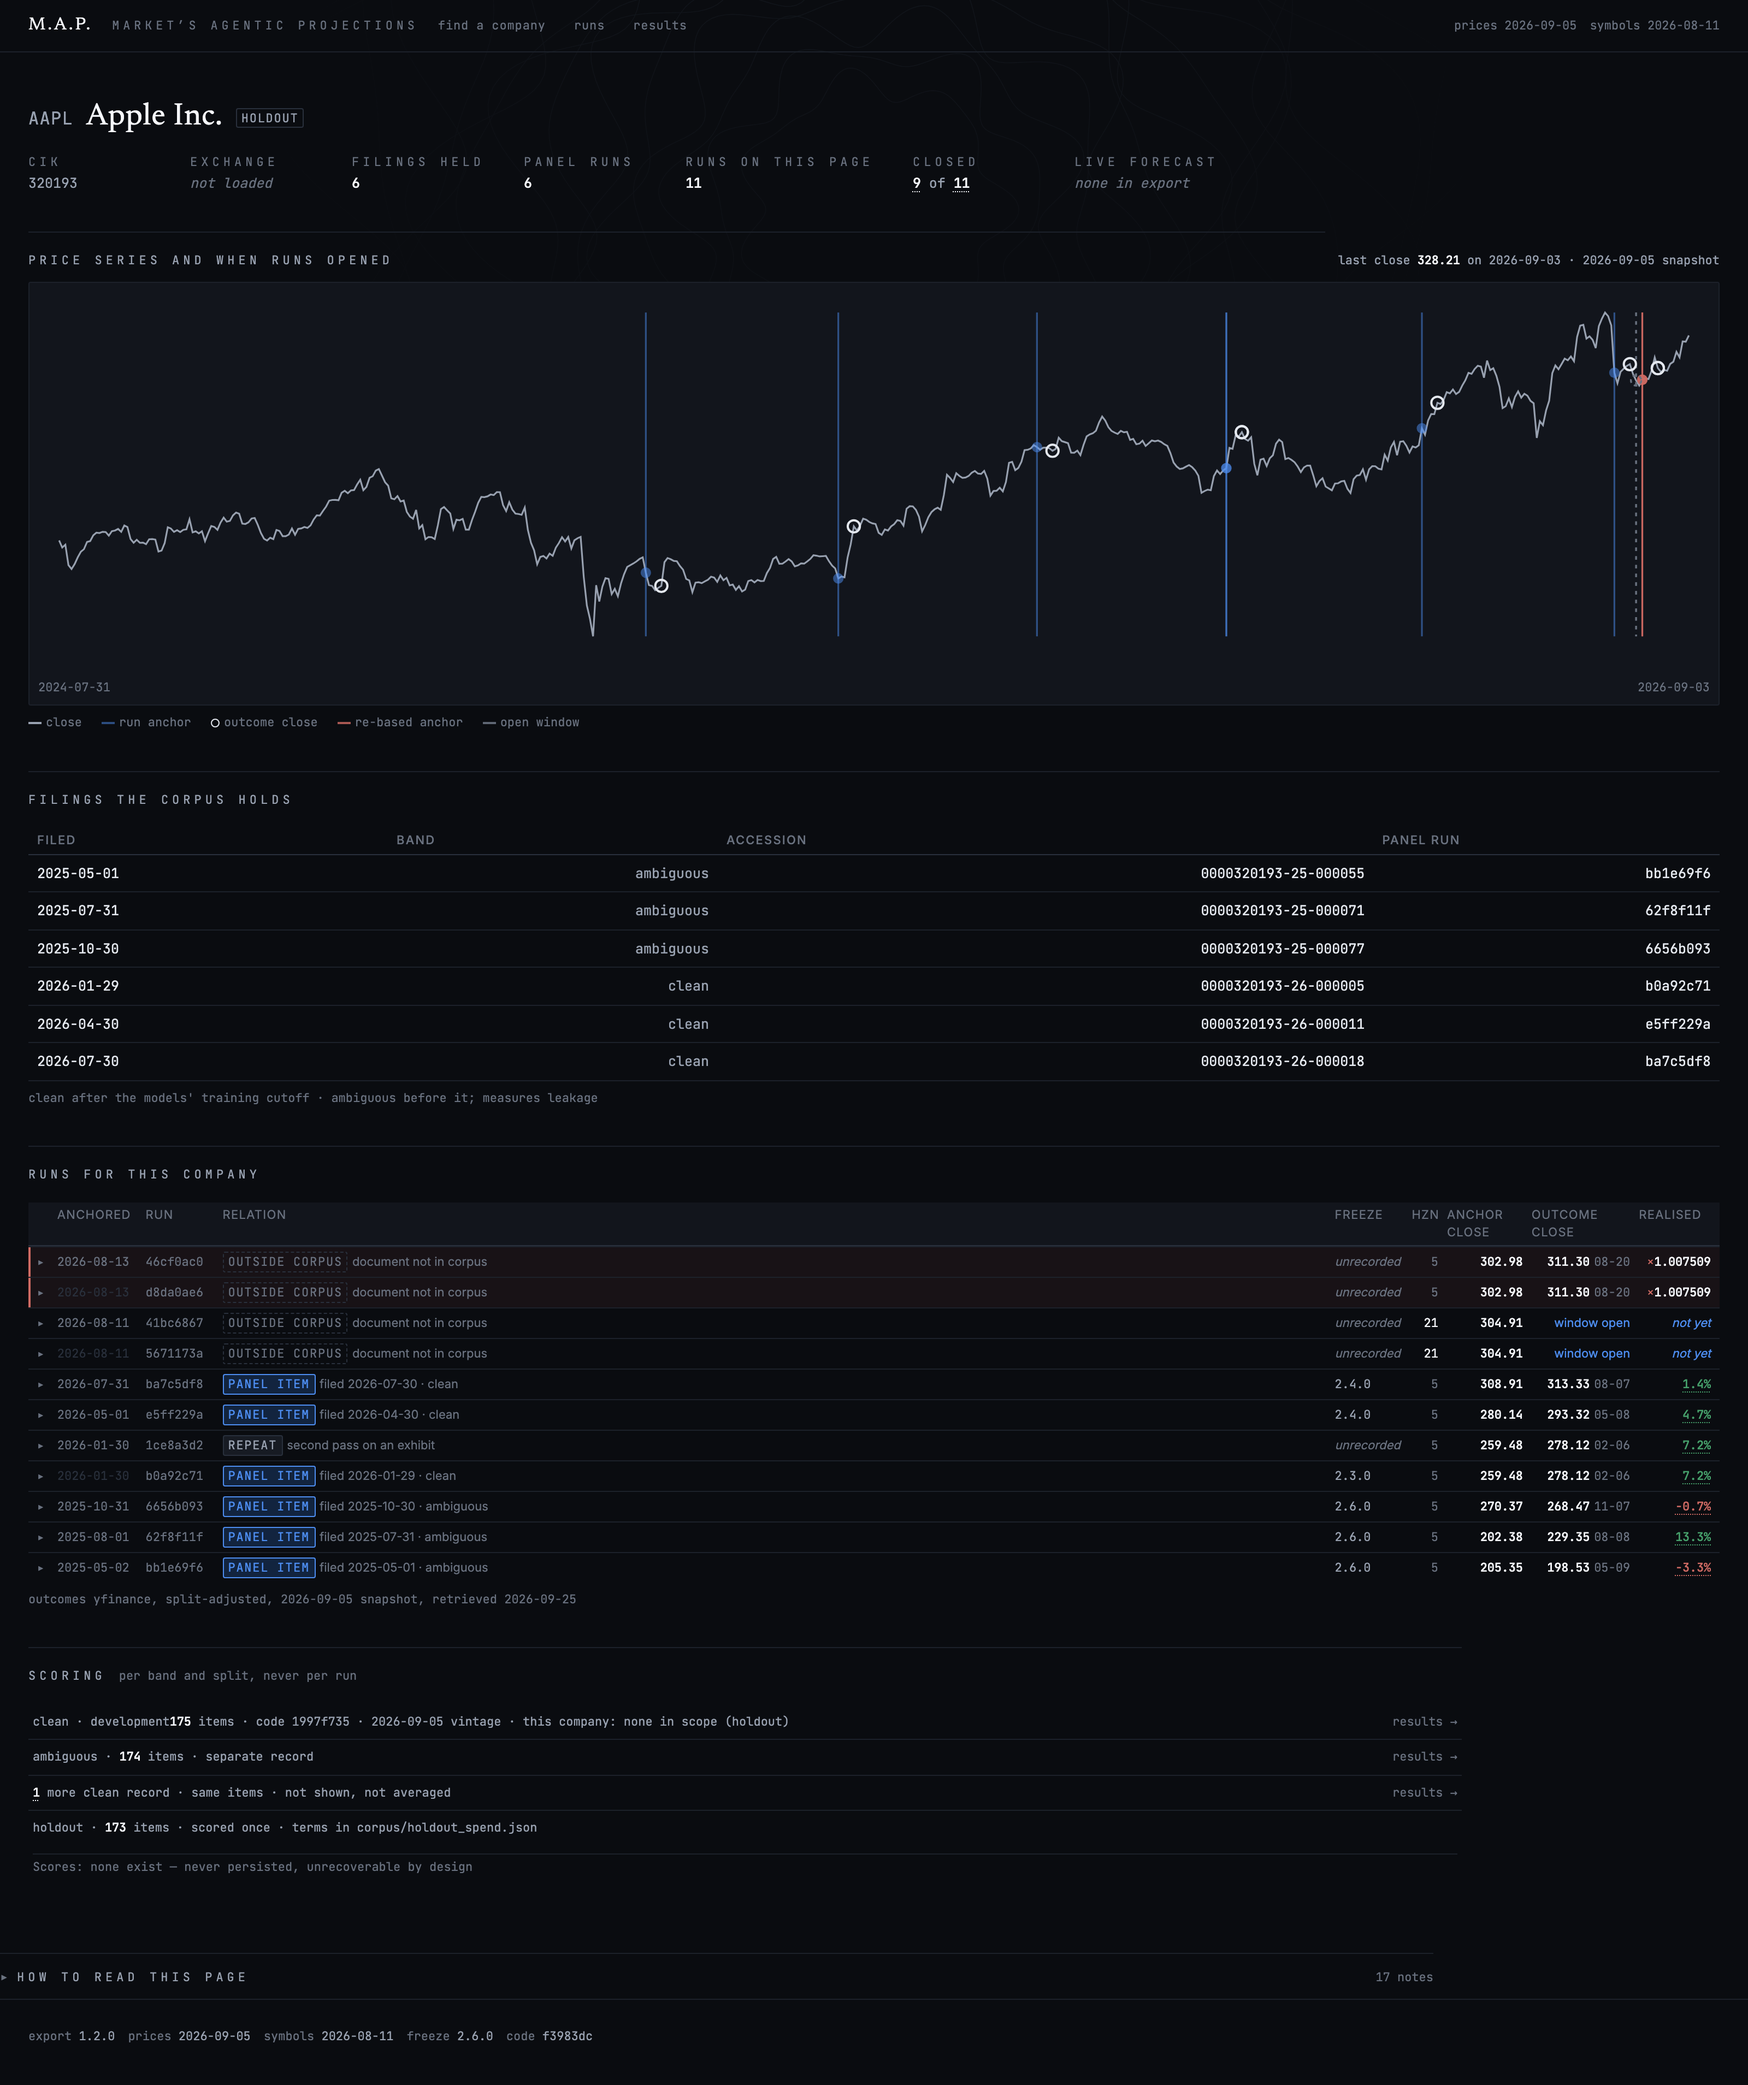
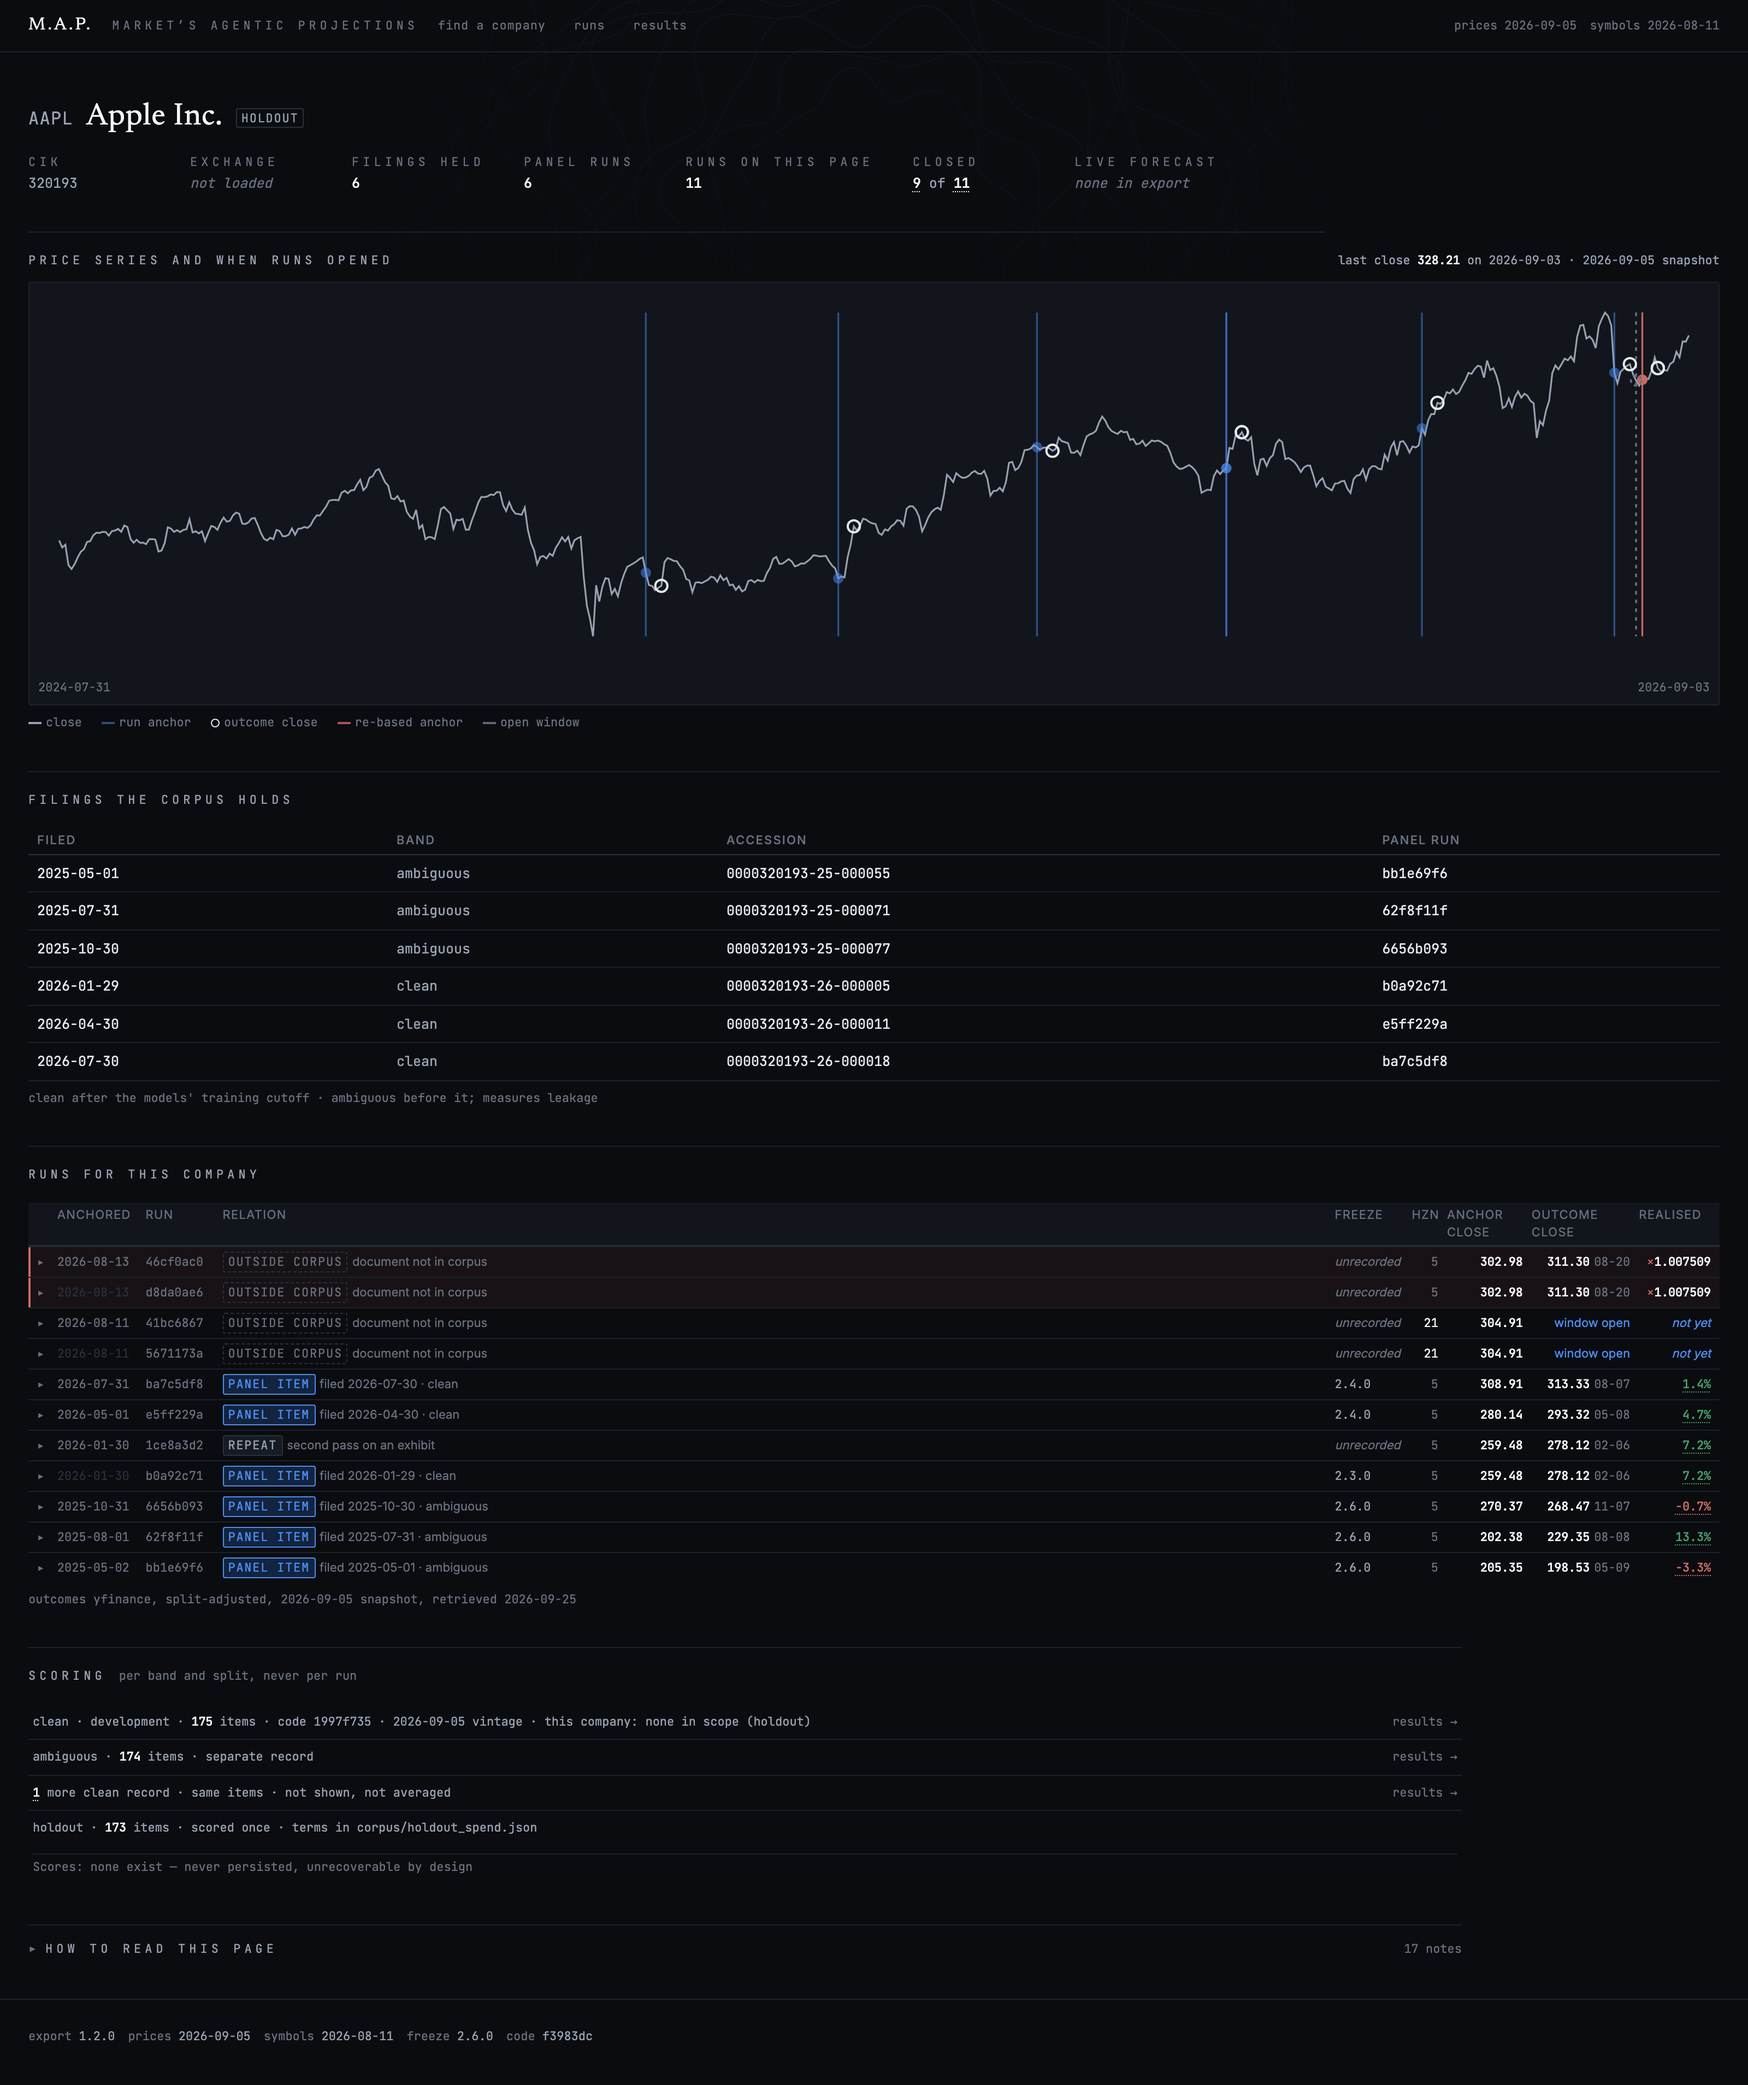
Fix six review findings across the four screens
The search match count added the corpus hits to a symbol-index total that already contained them, so every corpus company counted twice.

diff --git a/ui/assets/js/data/source.js b/ui/assets/js/data/source.js
@@ -175,6 +175,39 @@ export async function listCorpusCompanies() {
   };
 }
 
+/** THE matching rule, in one place.
+
+    Ticker prefix first, then company name anywhere. The search screen applies it
+    to the 120 corpus companies it holds in memory and this module applies it to
+    the 10,398-row index; two copies of it would let the two sets disagree about
+    what matched, which is precisely the question `countMatches` below answers.
+
+    `term` is expected uppercase — the caller normalises once rather than per
+    row, across 10,398 of them. */
+export function matchesTerm(row, term) {
+  if (row.ticker.startsWith(term)) return true;
+  const name = row.name;
+  if (!name || isAbsent(name)) return false;
+  return name.toUpperCase().includes(term);
+}
+
+/** How many DISTINCT symbols a term matched, across both sources.
+
+    The index holds every listed symbol INCLUDING the 120 the corpus froze, so a
+    corpus hit is a hit in both lists and adding the two totals counted it twice:
+    AAPL matched one company and reported 2, TSL matched four and reported 5.
+
+    Not `index − corpus` either. That would assume every corpus company is in the
+    index — all 120 are in this export, which is a property of it rather than a
+    guarantee, since a company frozen before the index was last synced would be
+    in one and not the other. A set over the tickers is right either way. */
+export function countMatches(symbolRows, corpusRows) {
+  const seen = new Set();
+  for (const row of symbolRows) seen.add(row.ticker);
+  for (const row of corpusRows) seen.add(row.ticker);
+  return seen.size;
+}
+
 /** The full searchable index, lazily. 10,398 rows, 864 KB — fetch it on the
     first keystroke, not at boot. */
 export async function searchSymbols(query, { limit = 20 } = {}) {
@@ -184,9 +217,7 @@ export async function searchSymbols(query, { limit = 20 } = {}) {
   // The index is open either way, so its size is knowable even for an empty
   // query. That is what lets the box stop saying "index not read".
   if (!needle) return { rows: [], matched: 0, indexSize: rows.length, provenance: MEASURED };
-  const hits = rows.filter(
-    (r) => r.ticker.startsWith(needle) || r.name.toUpperCase().includes(needle),
-  );
+  const hits = rows.filter((r) => matchesTerm(r, needle));
   return {
     // `limit: Infinity` returns every hit, for a caller that groups them by
     // resolution before cutting each group.

diff --git a/ui/assets/js/search-page.js b/ui/assets/js/search-page.js
@@ -61,12 +61,9 @@ function orderFor(term) {
 /** Corpus matches come from the 7.5 KB file in memory, so they resolve in every
     phase — including before the index has been requested. */
 function corpusMatches(term) {
-  return state.corpus
-    .filter((row) => {
-      const name = source.isAbsent(row.name) ? "" : row.name;
-      return row.ticker.startsWith(term) || name.toUpperCase().includes(term);
-    })
-    .sort(orderFor(term));
+  // The boundary's rule, not a second copy of it: two copies would let the two
+  // lists disagree about what matched, which is what the count reconciles.
+  return state.corpus.filter((row) => source.matchesTerm(row, term)).sort(orderFor(term));
 }
 
 async function group(term) {
@@ -82,7 +79,7 @@ async function group(term) {
   if (state.phase !== "ready") return { groups, matched: corpus.length, screened: corpus.length };
 
   const held = new Set(state.corpus.map((r) => r.ticker));
-  const { rows, matched } = await source.searchSymbols(term, { limit: Infinity });
+  const { rows } = await source.searchSymbols(term, { limit: Infinity });
   const outside = rows.filter((r) => !held.has(r.ticker)).sort(orderFor(term));
   const slice = outside.slice(0, SCREEN_CAP);
 
@@ -95,9 +92,10 @@ async function group(term) {
     else groups.none.push(entry);
   });
 
+  // The union of the two lists, keyed on ticker. See `countMatches`.
   return {
     groups,
-    matched: (matched ?? rows.length) + corpus.length - 0,
+    matched: source.countMatches(rows, corpus),
     screened: corpus.length + slice.length,
   };
 }

diff --git a/ui/assets/styles/company.css b/ui/assets/styles/company.css
@@ -140,7 +140,15 @@
   letter-spacing: .1em; color: var(--ink-3); font-weight: 500;
   padding: var(--sp-2) var(--sp-3); border-bottom: 1px solid var(--rule-2);
 }
-.cmp-table td { padding: var(--sp-3); border-bottom: 1px solid var(--rule); vertical-align: top; font-family: var(--font-mono); }
+/* LEFT, matching the header. components.css right-aligns every td — a sensible
+   default for a table of quantities, and wrong for this one: a filing date, a
+   band, an accession number and a run id are all strings read from the left, and
+   none of them is compared by magnitude. `.cmp-table th` had already been pulled
+   back to left and the cells had not, so each header sat away from its column. */
+.cmp-table td {
+  padding: var(--sp-3); border-bottom: 1px solid var(--rule);
+  vertical-align: top; font-family: var(--font-mono); text-align: left;
+}
 .cmp-band { color: var(--ink-2); }
 .cmp-row--unrun td { background: var(--sunken); }
 /* Attempted, settled, no forecast -- a terminal failure. This one earns amber. */

diff --git a/ui/assets/styles/system.css b/ui/assets/styles/system.css
@@ -276,6 +276,11 @@ body[data-mode="open"] .ground ~ *,
 a { color: var(--accent); text-decoration: none; transition: color var(--dur-1) var(--ease); }
 a:hover { color: var(--ink-num); text-decoration: underline 1px; text-underline-offset: .25em; }
 :focus-visible { outline: 1px solid var(--accent); outline-offset: 2px; }
+/* ...except where a wrapper already shows the ring. The search box draws its own
+   border on :focus-within, and the input inside it drawing a second outline made
+   one control look like two. The box is what a reader is focused on. */
+.srch-box :focus-visible,
+.door-box :focus-visible { outline: none; }
 
 /* The hover is an inset shadow, not a border, so nothing shifts under the
    pointer — and a row's own meaningful left bar stays visible under it. */

diff --git a/ui/assets/styles/results.css b/ui/assets/styles/results.css
@@ -30,6 +30,10 @@ body > .masthead,
    the prose measure it stopped short of the plots and the page had two right
    edges. Prose still caps itself, inside. */
 #disclosure, #legend, .res-status { max-width: var(--measure-prose); }
+/* NOT `#identity`. company.css caps that id at the prose measure, and this page
+   loads company.css — the same collision that once made the runs header narrow
+   and was fixed there by renaming to `#runs-identity`. The head holds the same
+   grid the charts do and has to reach the same right edge. */
 
 .res-card {
   background: var(--surface); border: 1px solid var(--rule);

diff --git a/ui/company.html b/ui/company.html
@@ -42,10 +42,10 @@
     <section id="filings"   class="cmp-section"></section>
     <section id="runs"      class="cmp-section"></section>
     <section id="scoring"   class="cmp-section"></section>
+    <!-- Inside <main>, which carries the frame: outside it the disclosure
+         had no gutter and its caret sat on the screen edge. -->
+    <section id="why"></section>
   </main>
-
-  <!-- Exactly one per screen, directly above the footer. -->
-  <section id="why"></section>
 
   <footer class="cmp-footer" id="footer"></footer>
 

diff --git a/ui/assets/js/ui/company-scoring.js b/ui/assets/js/ui/company-scoring.js
@@ -39,7 +39,7 @@ export function renderScoring(root, { scoring, company }) {
 
   if (clean) {
     list.append(scoreRow([
-      chromeText(`${clean.band} · development`, "the band and split this record covers"),
+      chromeText(`${clean.band} · development · `, "the band and split this record covers"),
       renderFigure(figure(clean.n, MEASURED, "int")),
       chromeText(" items", "how many items were scored"),
       chromeText(` · code ${clean.forecast_digest.slice(0, 8)}`, "an abbreviated forecast digest"),

diff --git a/ui/runs.html b/ui/runs.html
@@ -44,10 +44,10 @@
       <section id="drift" class="runs-section"></section>
     </div>
     <section id="journal"     class="runs-section"></section>
+    <!-- Inside <main>, which carries the frame: outside it the disclosure
+         had no gutter and its caret sat on the screen edge. -->
+    <section id="why"></section>
   </main>
-
-  <!-- Exactly one per screen, directly above the footer. -->
-  <section id="why"></section>
 
   <footer class="cmp-footer" id="footer"></footer>
 

diff --git a/ui/results.html b/ui/results.html
@@ -39,7 +39,7 @@
        disclosure at the bottom. -->
   <main class="res-page" id="results-page">
     <h2 class="page-title" id="page-title">Results</h2>
-    <section id="identity"></section>
+    <section id="res-identity"></section>
 
     <!-- Row 1: the measurement itself. The forest plot is the tall panel — six
          rows, each with the record's own sentence under it — so the narrow

diff --git a/ui/assets/js/results-page.js b/ui/assets/js/results-page.js
@@ -79,7 +79,7 @@ function paint() {
   const waiting = `Reading the ${state.band} record — ${fmt.kb(sizeOf(meta))}…`;
 
   if (meta) {
-    renderIdentity($("identity"), {
+    renderIdentity($("res-identity"), {
       meta,
       record: here?.record ?? null,
       stats: here?.stats ?? null,
